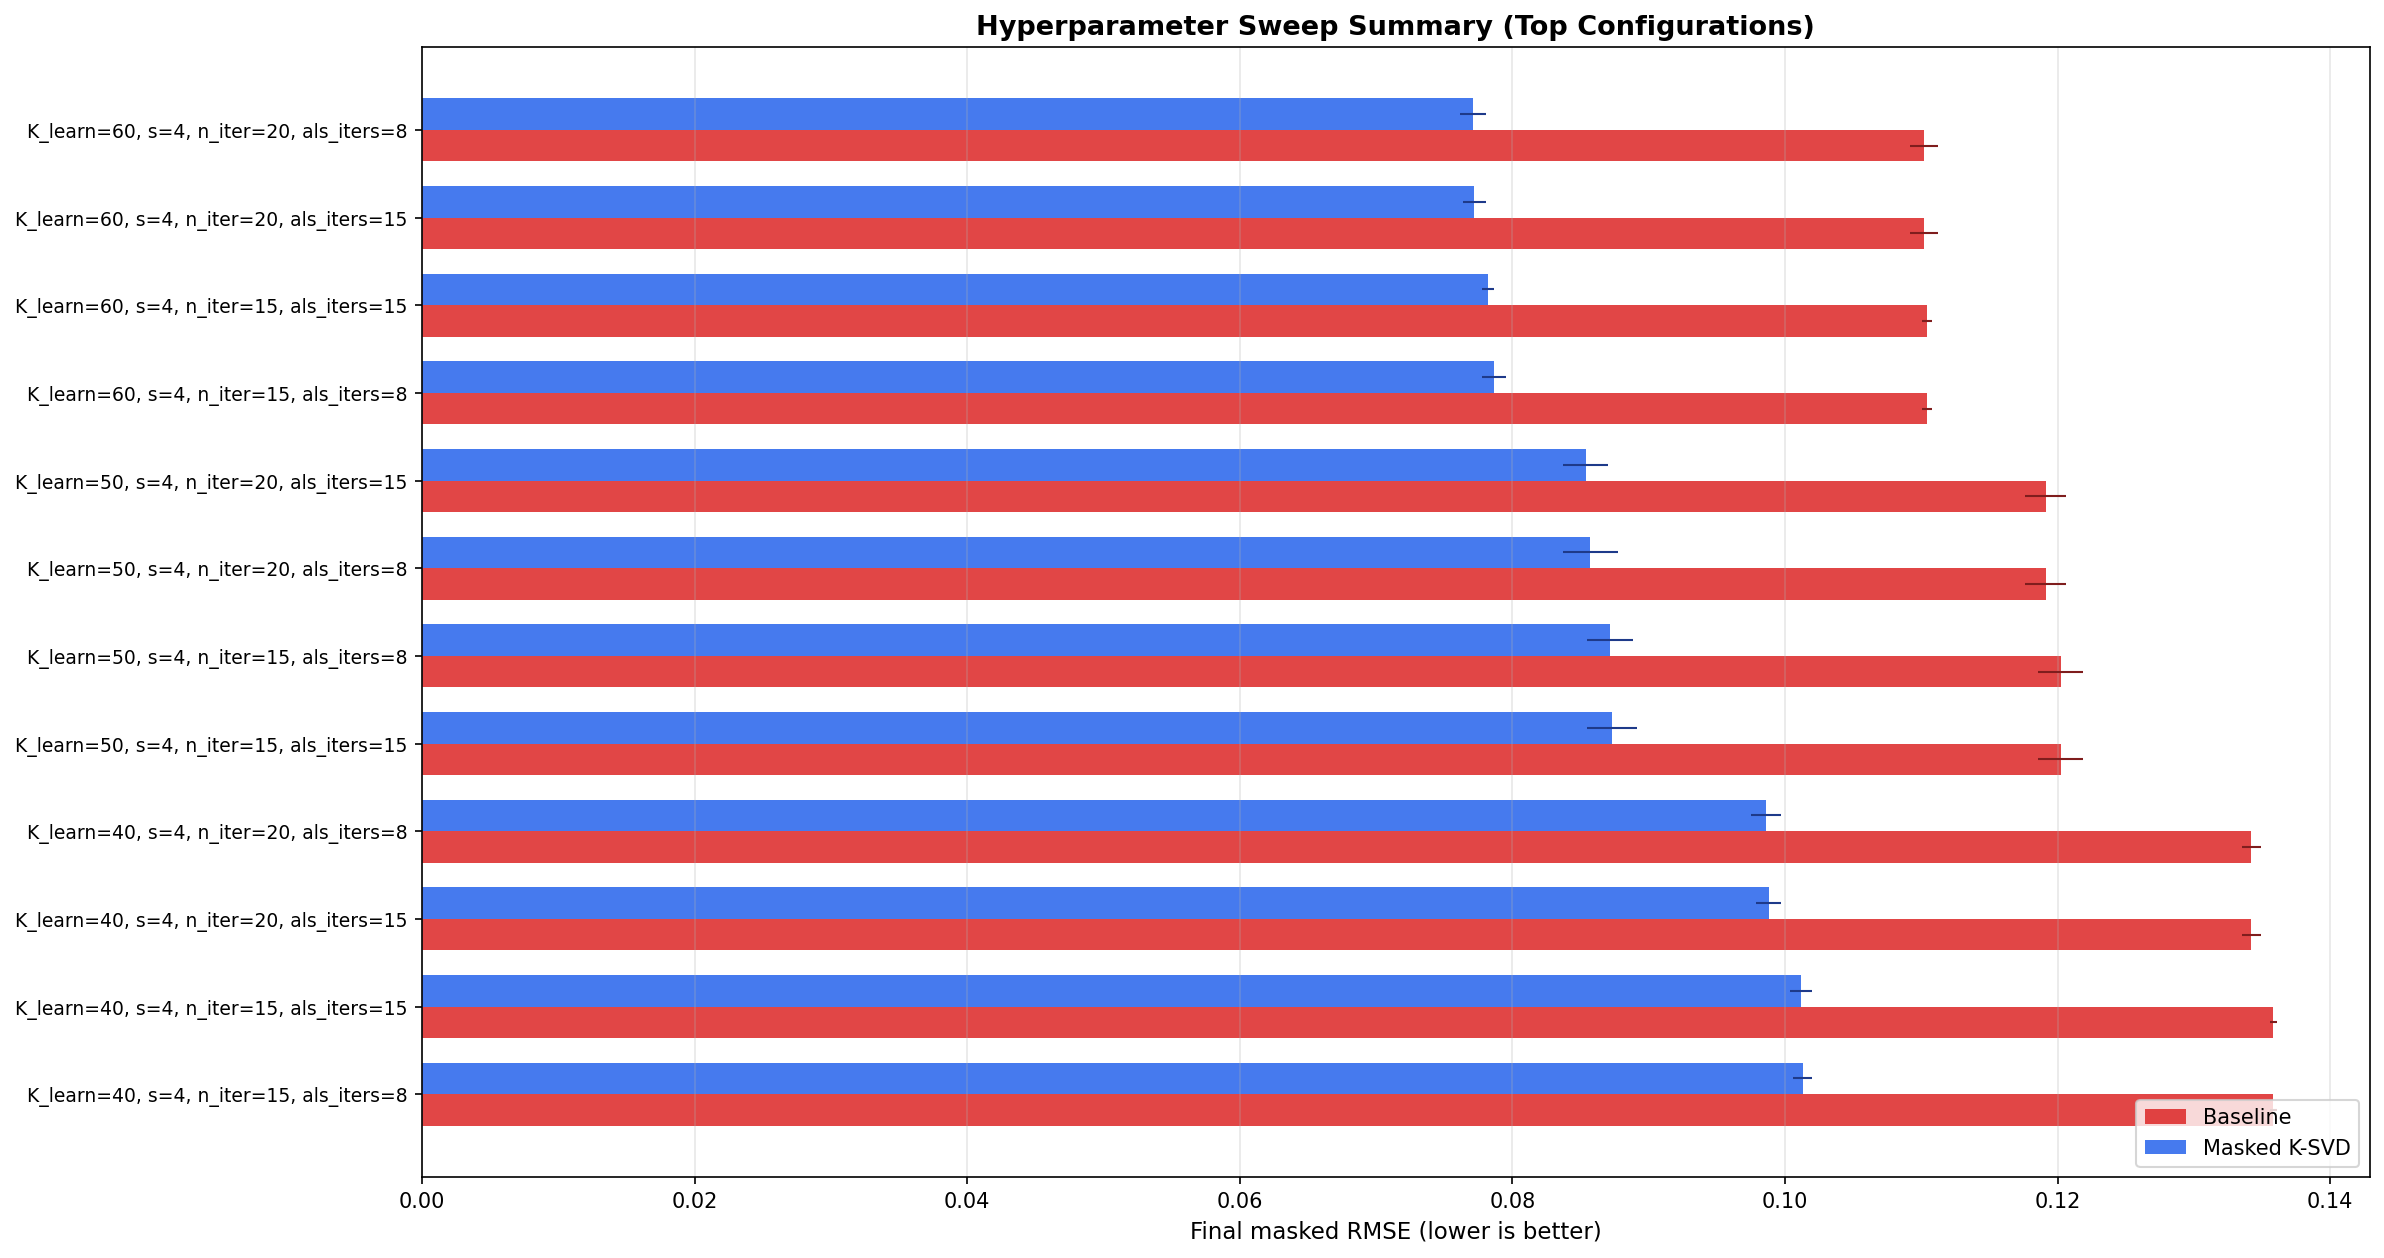
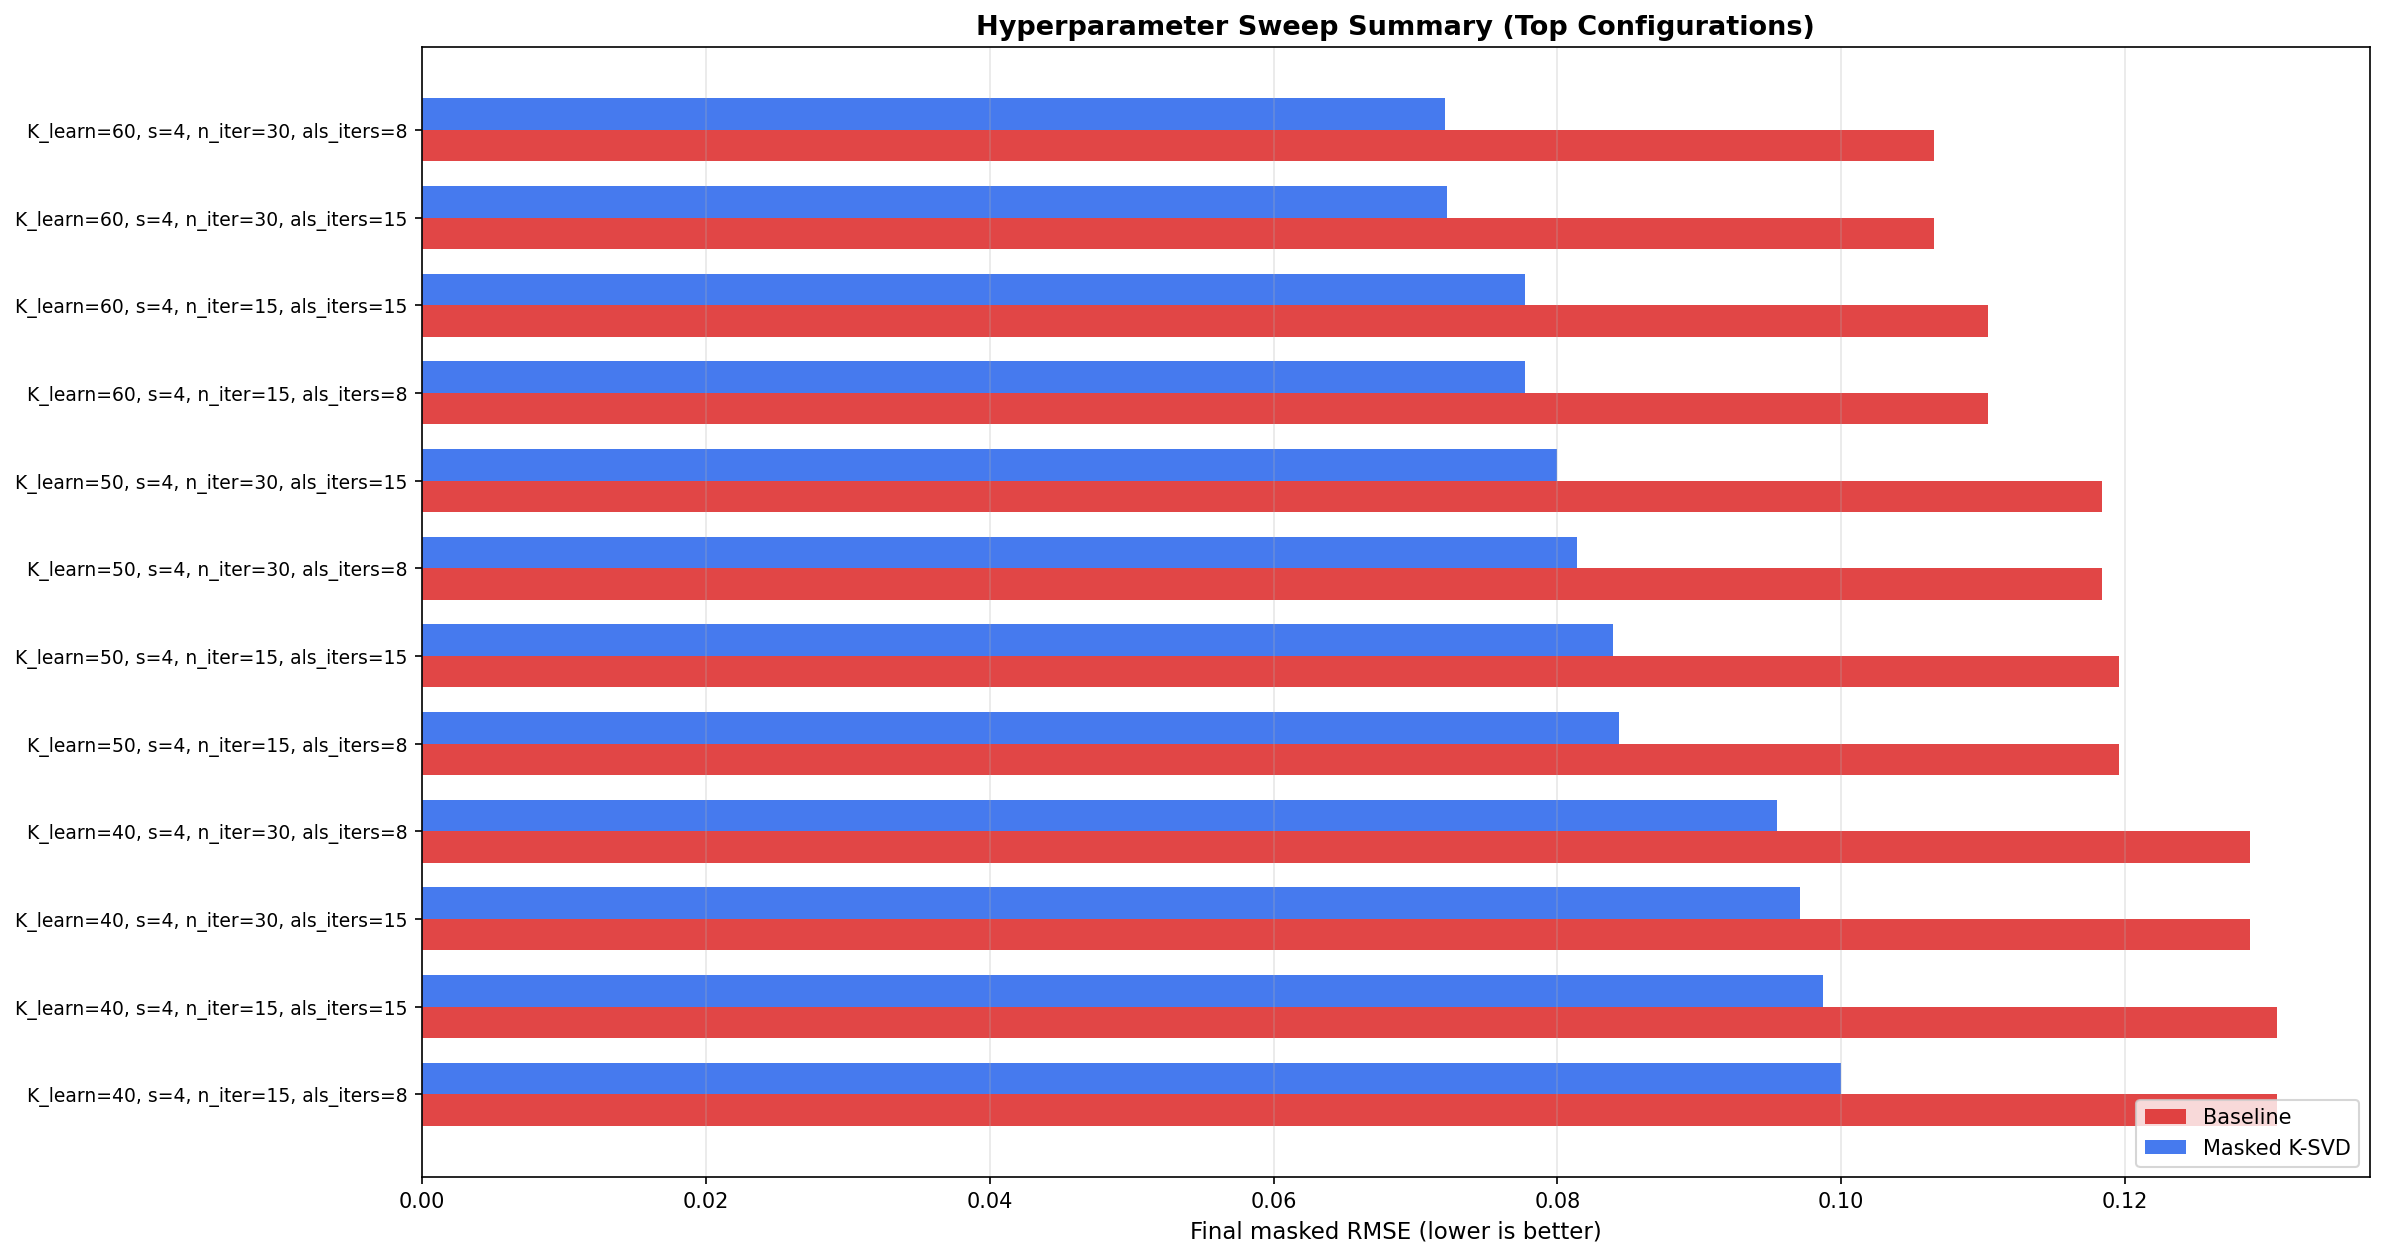
minor plot visual changes

diff --git a/masked_ksvd.py b/masked_ksvd.py
@@ -720,7 +720,7 @@ def plot_results(errors_masked, errors_baseline,
             0.012, 0.012,
             "Run parameters\n" + "\n".join(lines),
             ha="left", va="bottom", fontsize=8, family="monospace",
-            bbox=dict(boxstyle="round,pad=0.35", facecolor="white", alpha=0.9, edgecolor="#BFBFBF")
+            bbox=dict(boxstyle="round,pad=0.35", facecolor="white", alpha=0.3, edgecolor="#BFBFBF")
         )
 
     save_dir = os.path.dirname(save_path)
@@ -810,7 +810,7 @@ def _run_single_config(config, seed, output_dir, combo_id="single"):
     ]
     run_tag = _param_tag(row, tag_keys)
     plot_path = os.path.join(output_dir, f"{combo_id}__seed-{seed}__{run_tag}.png")
-    row["plot_path"] = plot_path
+    # row["plot_path"] = plot_path
 
     plot_results(
         err_masked, err_base,
@@ -979,7 +979,7 @@ def main():
     }
 
     # Toggle between one run and full sweep.
-    RUN_SWEEP = True
+    RUN_SWEEP = False
 
     out_root = os.path.join(
         os.path.dirname(os.path.abspath(__file__)),
@@ -990,10 +990,10 @@ def main():
         sweep_grid = {
             "K_learn": [40, 50, 60],
             "s": [2, 3, 4],
-            "n_iter": [15, 20],
+            "n_iter": [15, 30],
             "als_iters": [8, 15],
         }
-        sweep_seeds = [42, 123]
+        sweep_seeds = [69]
         sweep_out = os.path.join(out_root, "sweep")
         run_hyperparameter_sweep(base_config, sweep_grid, sweep_seeds, sweep_out)
         return
@@ -1005,7 +1005,8 @@ def main():
         combo_id="single"
     )
     print("\nSingle run complete.")
-    print(f"Plot saved -> {single_row['plot_path']}")
+    
+    # print(f"Plot saved -> {single_row['plot_path']}")
 
 
 if __name__ == "__main__":
